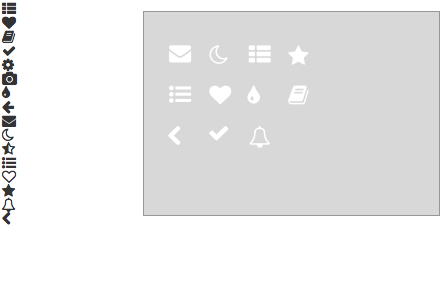
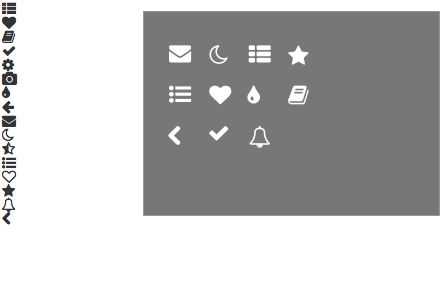
Feedback/review in night mode fixed

diff --git a/src/FeedMeMom/Helpers/Skin.cs b/src/FeedMeMom/Helpers/Skin.cs
@@ -214,11 +214,11 @@ namespace FeedMeMom
 			ButtonTextSelected = ColorUtil.FromHex("#A8A8A8");
 			ButtonInfoText = ColorUtil.FromHex("#3F3E3E");
 
-			SideMenuRow = ColorUtil.FromHex("#A8A8A8");
-			SideMenuRowText = ColorUtil.FromHex("#444444");
-			SideMenuRowBorder = ColorUtil.FromHex("#999999");
+			SideMenuRow = ColorUtil.FromHex("#555555");
+			SideMenuRowText = ColorUtil.FromHex("#cccccc");
+			SideMenuRowBorder = ColorUtil.FromHex("#444444");
 			SideMenuRowSelected = SideMenuRowBorder;
-			SideMenuRowSelectedText = ColorUtil.FromHex("#222222");
+			SideMenuRowSelectedText = ColorUtil.FromHex("#eeeeee");
 
 			TableRow = ColorUtil.FromHex("#333333");
 			TableRowSelected = ColorUtil.FromHex("#444444");

diff --git a/src/FeedMeMom/MainController.cs b/src/FeedMeMom/MainController.cs
@@ -306,7 +306,7 @@ namespace FeedMeMom
 			_sideMenu.Items.Add(new ActionItem(Resources.IlikeThisApp, () => {
 				_sideMenuHub.Hide();
 				NavigationController.PushViewController(new ReviewController(), false);
-			}, UIImage.FromBundle("hearth")));
+			}, UIImage.FromBundle("star")));
 
 			_sideMenu.Items.Add(new ActionItem("Buy Test", () => {
 				if (_buyController == null) {

diff --git a/src/FeedMeMom/Controllers/ReviewController.cs b/src/FeedMeMom/Controllers/ReviewController.cs
@@ -29,6 +29,7 @@ namespace FeedMeMom
 
 		private void ApplyColors(object sender = null, EventArgs e = null)
 		{
+			View.BackgroundColor = Skin.Active.Background;
 			Skin.Active.SkinButton(btnReview);
 			Skin.Active.SkinButton(btnShareByEmail);
 			Skin.Active.SkinButton(btnShareByTwitter);

diff --git a/src/FeedMeMom/Controllers/FeedbackController.cs b/src/FeedMeMom/Controllers/FeedbackController.cs
@@ -27,6 +27,7 @@ namespace FeedMeMom
 		
 		private void ApplyColors(object sender = null, EventArgs e = null)
 		{
+			View.BackgroundColor = Skin.Active.Background;
 			Skin.Active.SkinButton(btnNewFeature);
 			Skin.Active.SkinButton(btnBug);
 			Skin.Active.SkinButton(btnStayInTouch);
